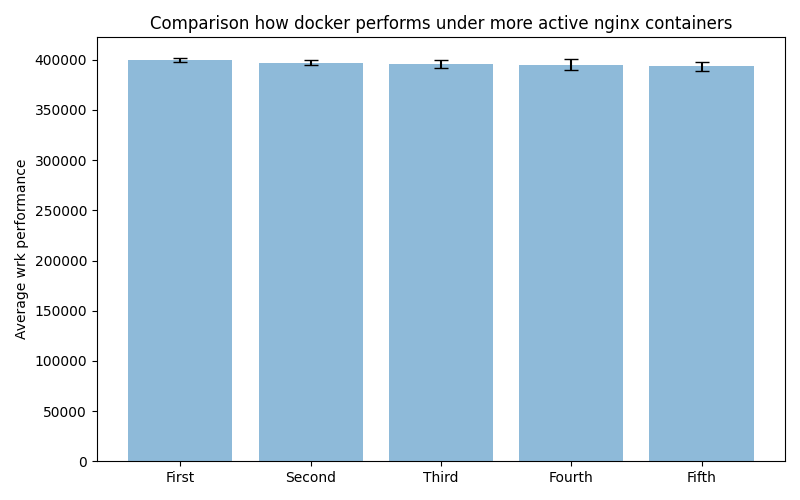
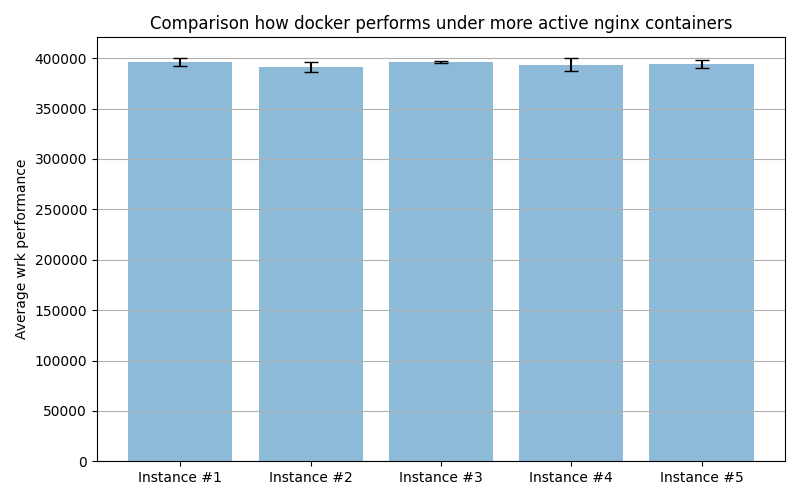
Update nginx benchmark figures

diff --git a/benchmark_cli/analytics/analyzer.py b/benchmark_cli/analytics/analyzer.py
@@ -36,7 +36,7 @@ FILE_NAMES = {
     "uk_ng_p": PARALLEL_FILES,
     "d_re_p": PARALLEL_FILES,
     "uk_re_p": PARALLEL_FILES,
-    "d_re_s": SINGLE_FILES_LARGE,
+    "d_re_s": SINGLE_FILES,
     "uk_re_s": SINGLE_FILES,
 }
 
@@ -129,7 +129,7 @@ def make_plot(data, experiment_name):
 
 
 if __name__ == "__main__":
-    exp_name = "d_re_s"
-    data = get_data(exp_name, 5, f"../benchmark-data/{exp_name}")
+    exp_name = "uk_re_s"
+    data = get_data(exp_name, 2, f"../benchmark-data/{exp_name}")
     print(data)
     make_plot(data, exp_name)
